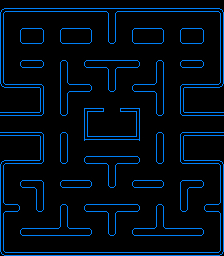
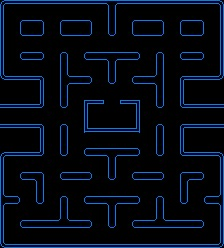
доделал карту

diff --git a/Pac_man.py b/Pac_man.py
@@ -1,60 +1,36 @@
 from Setting import *
+from Basic_func import *
 
 class Pac_man:
-    def __init__(self, x, y, screen):
-        self.x = x
-        self.y = y
+    def __init__(self, cell, screen, cells):
+        self.size = (40, 40)
+        self.move_now = (0, 0)
+        self.move_future = (0, 0)
+        self.cell = cell
+        self.x = cell.real_cord[0]-(self.size[0]/2-cell.cell_size[0]/2)-1
+        self.y = cell.real_cord[1]-(self.size[1]/2-cell.cell_size[1]/2)-1
+        self.all_cells = cells
         picture = pg.image.load(PAC_MAN_IMG_PASS)
-        self.pac_man = pg.transform.scale(picture, PAC_MAN_SIZE)
+        self.pac_man = pg.transform.scale(picture, self.size)
         self.screen = screen
-        self.textures = []
-        self.create_image()
-        self.rect = self.textures[0].get_rect()
+        self.rect = None
+        self.create()
 
-    def create_image(self):
-        self.textures.append(self.pac_man)
+    def create(self):
+        self.rect = self.pac_man.get_rect()
+        self.rect.x = self.x
+        self.rect.y = self.y
 
 
-    def move(self, x: int = 0, y: int = 0):
-        if len(self.textures) < 2:
-            if self.x < 0 + PAC_MAN_SIZE[0]:
-                self.create_image()
-            elif self.x > SCREEN_SIZE[0] - PAC_MAN_SIZE[0]:
-                self.create_image()
-            elif self.y < 0 + PAC_MAN_SIZE[1]:
-                self.create_image()
-            elif self.y > SCREEN_SIZE[1] - PAC_MAN_SIZE[1]:
-                self.create_image()
-        else:
-            if self.x < 0 - PAC_MAN_SIZE[0]:
-                self.x = SCREEN_SIZE[0] - PAC_MAN_SIZE[0]
-                self.textures.pop(1)
-            elif self.x > SCREEN_SIZE[0]:
-                self.x = 0
-                self.textures.pop(1)
-            if self.y < 0 - PAC_MAN_SIZE[1]:
-                self.y = SCREEN_SIZE[1] - PAC_MAN_SIZE[1]
-                self.textures.pop(1)
-            elif self.y > SCREEN_SIZE[1]:
-                self.y = 0
-                self.textures.pop(1)
-
-        self.x += x
-        self.y += y
-        self.rect.x, self.rect.y = self.x, self.y
 
     def draw(self):
-        self.screen.blit(self.textures[0], (self.x, self.y))
-        if len(self.textures) > 1:
-            if PAC_MAN_SIZE[1] < self.y < SCREEN_SIZE[1]-PAC_MAN_SIZE[1]:
-                if self.x < 0 + PAC_MAN_SIZE[0]:
-                    self.screen.blit(self.textures[1], (self.x + SCREEN_SIZE[0], self.y))
-                else:
-                    self.screen.blit(self.textures[1], (self.x - SCREEN_SIZE[0], self.y))
-            else:
-                if self.y < 0 + PAC_MAN_SIZE[1]:
-                    self.screen.blit(self.textures[1], (self.x, self.y + SCREEN_SIZE[1]))
-                else:
-                    self.screen.blit(self.textures[1], (self.x, self.y - SCREEN_SIZE[1]))
+        self.screen.blit(self.pac_man, (self.x, self.y))
 
+
+    def update_cell(self, cell):
+        self.cell = cell
+        if self.move_now[0]:
+            self.y = cell.real_cord[1]-(self.size[1]/2-cell.cell_size[1]/2)-1
+        if self.move_now[1]:
+            self.x = cell.real_cord[0]-(self.size[0]/2-cell.cell_size[0]/2)-1
 

diff --git a/Setting.py b/Setting.py
@@ -1,12 +1,44 @@
 import pygame as pg
 
-SCREEN_SIZE = 800, 800
+PLAY_BOARD_SIZE = 723, 800
 
 BG_COLOR = (5, 5, 20)
 
-PAC_MAN_SIZE = (40, 40)
-
-SPEED = 3
+SPEED = 1
 
 PAC_MAN_IMG_PASS = "images/Pac_man.png"
 MAP_IMG_PASS = "images/pac_man_map.jpeg"
+
+MAP = [
+    [0, 0, 0, 0, 0, 0, 0, 0, 0, 0, 0, 0, 0, 0, 0, 0, 0, 0, 0, 0, 0, 0, 0, 0, 0, 0, 0, 0],
+    [0, 1, 1, 1, 1, 1, 1, 1, 1, 1, 1, 1, 1, 0, 0, 1, 1, 1, 1, 1, 1, 1, 1, 1, 1, 1, 1, 0],
+    [0, 1, 0, 0, 0, 0, 1, 0, 0, 0, 0, 0, 1, 0, 0, 1, 0, 0, 0, 0, 0, 1, 0, 0, 0, 0, 1, 0],
+    [0, 1, 0, 0, 0, 0, 1, 0, 0, 0, 0, 0, 1, 0, 0, 1, 0, 0, 0, 0, 0, 1, 0, 0, 0, 0, 1, 0],
+    [0, 1, 0, 0, 0, 0, 1, 0, 0, 0, 0, 0, 1, 0, 0, 1, 0, 0, 0, 0, 0, 1, 0, 0, 0, 0, 1, 0],
+    [0, 1, 1, 1, 1, 1, 1, 1, 1, 1, 1, 1, 1, 1, 1, 1, 1, 1, 1, 1, 1, 1, 1, 1, 1, 1, 1, 0],
+    [0, 1, 0, 0, 0, 0, 1, 0, 0, 1, 0, 0, 0, 0, 0, 0, 0, 0, 1, 0, 0, 1, 0, 0, 0, 0, 1, 0],
+    [0, 1, 0, 0, 0, 0, 1, 0, 0, 1, 0, 0, 0, 0, 0, 0, 0, 0, 1, 0, 0, 1, 0, 0, 0, 0, 1, 0],
+    [0, 1, 1, 1, 1, 1, 1, 0, 0, 1, 1, 1, 1, 0, 0, 1, 1, 1, 1, 0, 0, 1, 1, 1, 1, 1, 1, 0],
+    [0, 0, 0, 0, 0, 0, 1, 0, 0, 0, 0, 0, 1, 0, 0, 1, 0, 0, 0, 0, 0, 1, 0, 0, 0, 0, 0, 0],
+    [0, 0, 0, 0, 0, 0, 1, 0, 0, 0, 0, 0, 1, 0, 0, 1, 0, 0, 0, 0, 0, 1, 0, 0, 0, 0, 0, 0],
+    [0, 0, 0, 0, 0, 0, 1, 0, 0, 1, 1, 1, 1, 1, 1, 1, 1, 1, 1, 0, 0, 1, 0, 0, 0, 0, 0, 0],
+    [0, 0, 0, 0, 0, 0, 1, 0, 0, 1, 1, 1, 1, 1, 1, 1, 1, 1, 1, 0, 0, 1, 0, 0, 0, 0, 0, 0],
+    [0, 0, 0, 0, 0, 0, 1, 0, 0, 1, 1, 1, 1, 1, 1, 1, 1, 1, 1, 0, 0, 1, 0, 0, 0, 0, 0, 0],
+    [1, 1, 1, 1, 1, 1, 1, 1, 1, 1, 1, 1, 1, 1, 1, 1, 1, 1, 1, 1, 1, 1, 1, 1, 1, 1, 1, 1],
+    [0, 0, 0, 0, 0, 0, 1, 0, 0, 1, 1, 1, 1, 1, 1, 1, 1, 1, 1, 0, 0, 1, 0, 0, 0, 0, 0, 0],
+    [0, 0, 0, 0, 0, 0, 1, 0, 0, 1, 1, 1, 1, 1, 1, 1, 1, 1, 1, 0, 0, 1, 0, 0, 0, 0, 0, 0],
+    [0, 0, 0, 0, 0, 0, 1, 0, 0, 1, 1, 1, 1, 1, 1, 1, 1, 1, 1, 0, 0, 1, 0, 0, 0, 0, 0, 0],
+    [0, 0, 0, 0, 0, 0, 1, 0, 0, 1, 0, 0, 0, 0, 0, 0, 0, 0, 1, 0, 0, 1, 0, 0, 0, 0, 0, 0],
+    [0, 0, 0, 0, 0, 0, 1, 0, 0, 1, 0, 0, 0, 0, 0, 0, 0, 0, 1, 0, 0, 1, 0, 0, 0, 0, 0, 0],
+    [0, 1, 1, 1, 1, 1, 1, 1, 1, 1, 1, 1, 1, 0, 0, 1, 1, 1, 1, 1, 1, 1, 1, 1, 1, 1, 1, 0],
+    [0, 1, 0, 0, 0, 0, 1, 0, 0, 0, 0, 0, 1, 0, 0, 1, 0, 0, 0, 0, 0, 1, 0, 0, 0, 0, 1, 0],
+    [0, 1, 0, 0, 0, 0, 1, 0, 0, 0, 0, 0, 1, 0, 0, 1, 0, 0, 0, 0, 0, 1, 0, 0, 0, 0, 1, 0],
+    [0, 1, 1, 1, 0, 0, 1, 1, 1, 1, 1, 1, 1, 1, 1, 1, 1, 1, 1, 1, 1, 1, 0, 0, 1, 1, 1, 0],
+    [0, 0, 0, 1, 0, 0, 1, 0, 0, 1, 0, 0, 0, 0, 0, 0, 0, 0, 1, 0, 0, 1, 0, 0, 1, 0, 0, 0],
+    [0, 0, 0, 1, 0, 0, 1, 0, 0, 1, 0, 0, 0, 0, 0, 0, 0, 0, 1, 0, 0, 1, 0, 0, 1, 0, 0, 0],
+    [0, 1, 1, 1, 1, 1, 1, 0, 0, 1, 1, 1, 1, 0, 0, 1, 1, 1, 1, 0, 0, 1, 1, 1, 1, 1, 1, 0],
+    [0, 1, 0, 0, 0, 0, 0, 0, 0, 0, 0, 0, 1, 0, 0, 1, 0, 0, 0, 0, 0, 0, 0, 0, 0, 0, 1, 0],
+    [0, 1, 0, 0, 0, 0, 0, 0, 0, 0, 0, 0, 1, 0, 0, 1, 0, 0, 0, 0, 0, 0, 0, 0, 0, 0, 1, 0],
+    [0, 1, 1, 1, 1, 1, 1, 1, 1, 1, 1, 1, 1, 1, 1, 1, 1, 1, 1, 1, 1, 1, 1, 1, 1, 1, 1, 0],
+    [0, 0, 0, 0, 0, 0, 0, 0, 0, 0, 0, 0, 0, 0, 0, 0, 0, 0, 0, 0, 0, 0, 0, 0, 0, 0, 0, 0]
+]

diff --git a/Map.py b/Map.py
@@ -1,10 +1,58 @@
 from Setting import *
+from Basic_func import *
 
 class Map:
     def __init__(self, screen):
         self.screen = screen
+        self.cells = pg.sprite.Group()
+        self.create_cells()
         picture = pg.image.load(MAP_IMG_PASS)
-        self.map = pg.transform.scale(picture, SCREEN_SIZE)
+        self.image_map = pg.transform.scale(picture, PLAY_BOARD_SIZE)
 
     def draw(self):
-        self.screen.blit(self.map, (0, 0))
+        self.screen.blit(self.image_map, (0, 0))
+
+    def create_cells(self):
+        for y in range(len(MAP)):
+            for x, type in enumerate(MAP[y]):
+                cell = Cell((x, y), type)
+                self.cells.add(cell)
+
+    def move(self, peace, x: int = 0, y: int = 0):
+        if x > 0:
+            cell = get_cell_by_cord((peace.cell.cord[0]+1, peace.cell.cord[1]), self.cells)
+            if cell.type:
+                peace.x += x
+        if x < 0:
+            cell = get_cell_by_cord((peace.cell.cord[0]-1, peace.cell.cord[1]), self.cells)
+            if cell.type:
+                peace.x += x
+        if y > 0:
+            cell = get_cell_by_cord((peace.cell.cord[0], peace.cell.cord[1]+1), self.cells)
+            if cell.type:
+                peace.y += y
+        if y < 0:
+            cell = get_cell_by_cord((peace.cell.cord[0], peace.cell.cord[1]-1), self.cells)
+            if cell.type:
+                peace.y += y
+        peace.rect.x, peace.rect.y = peace.x, peace.y
+        if peace.rect.center == get_cell(peace.rect.center, self.cells).rect.center:
+            peace.update_cell(get_cell(peace.rect.center, self.cells))
+            peace.move_now = peace.move_future
+
+    def draw_cells(self):
+        for cell in self.cells:
+            color = (0, 200, 0) if cell.type else (200, 0, 0)
+            pg.draw.rect(self.screen, color, cell)
+
+
+
+
+class Cell(pg.sprite.Sprite):
+    def __init__(self, coord, type):
+        super().__init__()
+        self.cell_size = (int(PLAY_BOARD_SIZE[0]/28), int(PLAY_BOARD_SIZE[1]/31))
+        self.cord = coord
+        self.real_cord = (self.cord[0] * self.cell_size[0], self.cord[1] * self.cell_size[1])
+        self.rect = pg.Rect(self.cord[0] * self.cell_size[0], self.cord[1] * self.cell_size[1], self.cell_size[0], self.cell_size[1])
+        self.type = type

diff --git a/Core.py b/Core.py
@@ -4,7 +4,7 @@ import sys
 pg.init()
 pg.display.set_caption('Pac_man')
 
-screen = pg.display.set_mode(SCREEN_SIZE)
+screen = pg.display.set_mode(PLAY_BOARD_SIZE)
 clock = pg.time.Clock()
 
 game = Game(screen)
@@ -17,17 +17,17 @@ while True:
             sys.exit()
         if event.type == pg.KEYDOWN:
             if event.key == pg.K_w:
-                game.pac_man_move = (0, -SPEED)
+                game.pac_man.move_future = (0, -SPEED)
             elif event.key == pg.K_s:
-                game.pac_man_move = (0, SPEED)
+                game.pac_man.move_future = (0, SPEED)
             elif event.key == pg.K_a:
-                game.pac_man_move = (-SPEED, 0)
+                game.pac_man.move_future = (-SPEED, 0)
             elif event.key == pg.K_d:
-                game.pac_man_move = (SPEED, 0)
+                game.pac_man.move_future = (SPEED, 0)
 
 
     game.create_frame()
     game.draw_frame()
 
-    clock.tick(60)
+    clock.tick(180)
     pg.display.update()

diff --git a/Game_core.py b/Game_core.py
@@ -2,22 +2,23 @@ from Setting import *
 from Map import *
 from Enemy import *
 from Pac_man import *
+from Basic_func import *
 
 class Game:
     def __init__(self, screen):
         self.screen = screen
         self.map = Map(self.screen)
-        self.pac_man_move = (0, 0)
-        self.pac_man = Pac_man(SCREEN_SIZE[0]/2, SCREEN_SIZE[1]/2, self.screen)
+        self.pac_man = Pac_man(get_cell_by_cord((13, 23), self.map.cells), self.screen, self.map.cells)
         self.enemies = pg.sprite.Group()
         self.create_enemies()
 
     def draw_frame(self):
         self.map.draw()
+        #self.map.draw_cells()
         self.pac_man.draw()
 
     def create_frame(self):
-        self.pac_man.move(*self.pac_man_move)
+        self.map.move(self.pac_man, *self.pac_man.move_now)
 
     def create_enemies(self):
         pass

diff --git a/Basic_func.py b/Basic_func.py
@@ -1,0 +1,10 @@
+def get_cell(cords, cells):
+    for cell in cells:
+        if cell.rect.collidepoint(cords):
+            return cell
+
+
+def get_cell_by_cord(cords, cells):
+    for cell in cells:
+        if cell.cord == cords:
+            return cell
